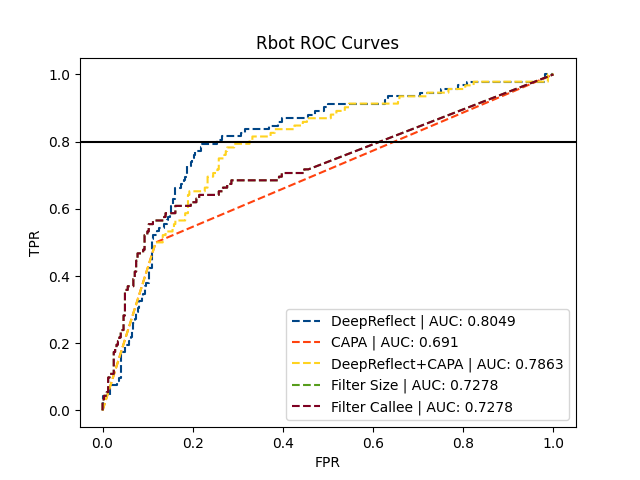
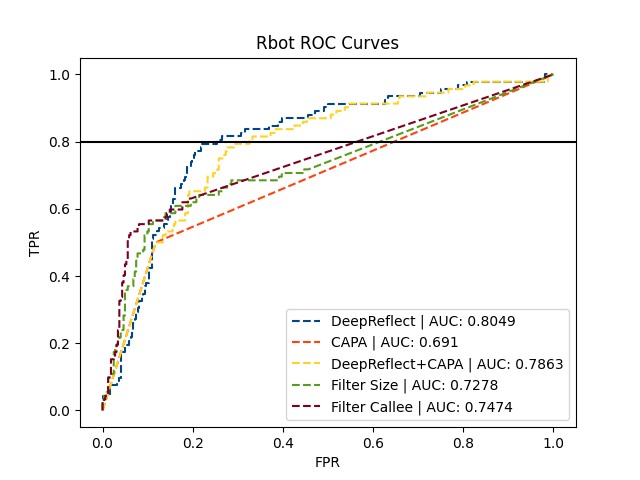
fix bug in filter.py not storing filtered callee addresses

diff --git a/grader/filter.py b/grader/filter.py
@@ -6,7 +6,7 @@ import time
 
 import binaryninja as binja
 
-#TODO
+# Treat functions with small number of basic blocks as benign
 def filter_size(dataFN,bv,thresh):
     # Load DeepReflect results
     deepreflect_result = np.load(dataFN)
@@ -46,7 +46,7 @@ def filter_size(dataFN,bv,thresh):
 
     return addr,score,label
 
-#TODO
+# Treat functions with small number of function callees as benign
 def filter_callee(dataFN,bv,thresh):
     # Load DeepReflect results
     deepreflect_result = np.load(dataFN)
@@ -135,7 +135,7 @@ def _main():
     # Filter by callees
     thresh = int(args.callee)
     outFN = args.out_callee
-    filter_callee(dataFN,bv,thresh)
+    addr,score,label = filter_callee(dataFN,bv,thresh)
     np.savez(outFN,
              y=np.asarray(label),
              score=np.asarray(score),
